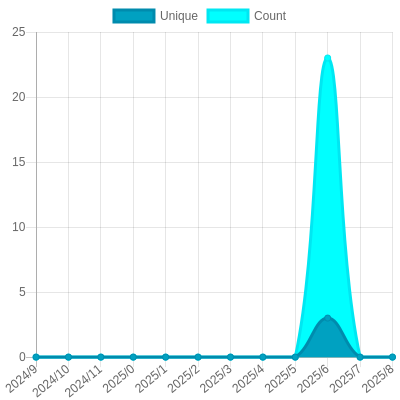
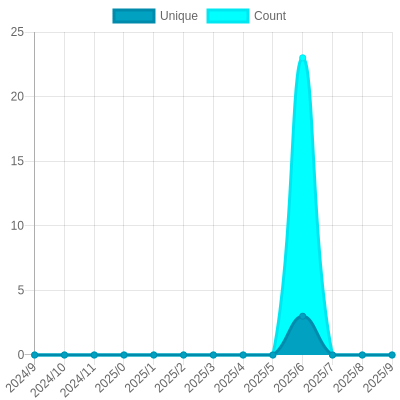
Update views

Changed region(s): [[0.03, 0.09, 0.99, 1.0], [0.03, 0.06, 0.06, 0.09]]

diff --git a/README.md b/README.md
@@ -26,7 +26,7 @@ The project created and maintained by [gayanvoice](https://github.com/gayanvoice
 			</a>
 		</td>
 		<td>
-			2024/9/29 12:59 AM UTC
+			2024/9/30 12:56 AM UTC
 		</td>
 		<td>
 			4
@@ -37,7 +37,7 @@ The project created and maintained by [gayanvoice](https://github.com/gayanvoice
 	</tr>
 </table>
 
-<small><i>Last updated on 2024/10/1 6:15 PM UTC</i></small>
+<small><i>Last updated on 2024/10/2 12:55 AM UTC</i></small>
 
 ## ✂Copy and 📋 Paste
 ### Total Views Badge

diff --git a/readme/692100595/year.md b/readme/692100595/year.md
@@ -20,6 +20,17 @@
 	</tr>
 	<tr>
 		<td>
+			<code>2024/10/1</code>
+		</td>
+		<td>
+			<code>0</code>
+		</td>
+		<td>
+			<code>0</code>
+		</td>
+	</tr>
+	<tr>
+		<td>
 			<code>2024/9/1</code>
 		</td>
 		<td>
@@ -153,7 +164,7 @@
 </table>
 
 </details>
-<small><i>Last updated on 2024/10/1 6:15 PM UTC</i></small>
+<small><i>Last updated on 2024/10/2 12:54 AM UTC</i></small>
 
 ## ✂Copy and 📋 Paste
 ### SVG Badge
